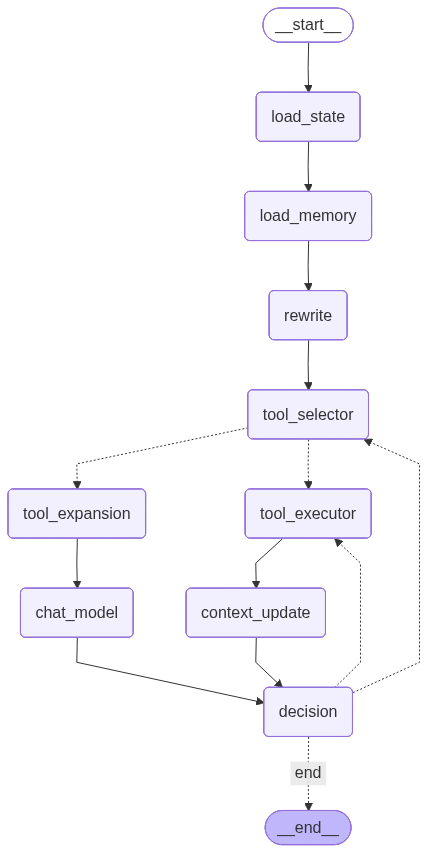
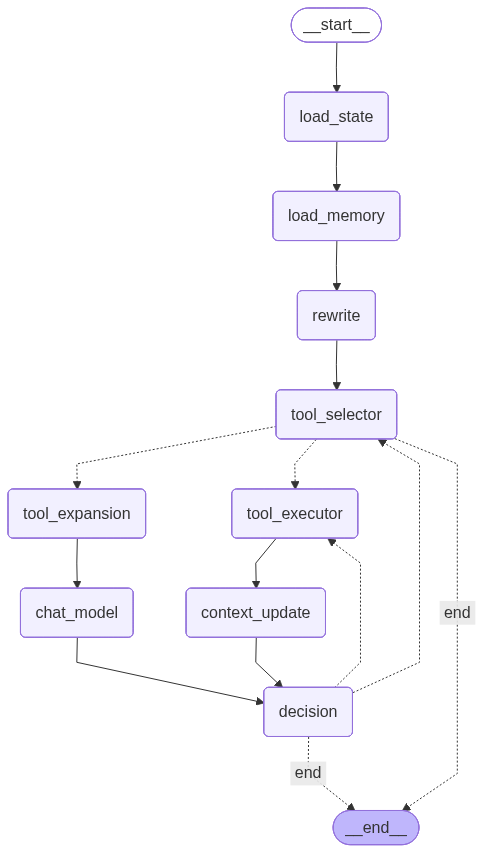
graph

diff --git a/app/agent/graph/nodes/tool_selector.py b/app/agent/graph/nodes/tool_selector.py
@@ -3,6 +3,7 @@ from __future__ import annotations
 from loguru import logger
 from app.agent.context.tools.selector import build_category_selector_tool
 from langchain_core.messages import AIMessage
+from app.agent.util import extract_reply_text
 
 from app.agent.graph.runtime import GraphRuntimeContext
 
@@ -31,10 +32,24 @@ def tool_selector_node(state: ReplyState, context: GraphRuntimeContext) -> Reply
                 "selector_requires_tool_execution": True,
             }
         )
+    direct_reply_text = _extract_direct_reply_text(reply)
+    if direct_reply_text is not None:
+        logger.info("tool_selector 已直接产出最终回复，结束当前轮")
+        return state.model_copy(
+            update={
+                "messages": updated_messages,
+                "final_reply": direct_reply_text,
+                "selected_tool_categories": (),
+                "selected_tool_names": (),
+                "selector_confidence": 1.0,
+                "selector_requires_tool_execution": False,
+            }
+        )
     if selected_category is None:
         logger.info("tool_selector 未选择工具大类，当前轮按直答继续")
         return state.model_copy(
             update={
+                "messages": updated_messages,
                 "selected_tool_categories": (),
                 "selected_tool_names": (),
                 "selector_confidence": 0.4,
@@ -60,3 +75,12 @@ def _has_non_selector_tool_call(reply: AIMessage) -> bool:
         if isinstance(tool_name, str) and tool_name != "select_tool_category":
             return True
     return False
+
+
+def _extract_direct_reply_text(reply: AIMessage) -> str | None:
+    if getattr(reply, "tool_calls", None):
+        return None
+    reply_text = extract_reply_text(reply).strip()
+    if reply_text == "":
+        return None
+    return reply_text

diff --git a/app/agent/graph/builder.py b/app/agent/graph/builder.py
@@ -87,7 +87,7 @@ def build_graph(
     graph.add_edge("load_state", "load_memory")
     graph.add_edge("load_memory", "rewrite")
     graph.add_edge("rewrite", "tool_selector")
-    graph.add_conditional_edges("tool_selector", route_after_tool_selector, {"tool_expansion": "tool_expansion", "tool_executor": "tool_executor"})
+    graph.add_conditional_edges("tool_selector", route_after_tool_selector, {"tool_expansion": "tool_expansion", "tool_executor": "tool_executor", "end": END})
     graph.add_edge("tool_expansion", "chat_model")
     graph.add_edge("chat_model", "decision")
     graph.add_edge("tool_executor", "context_update")

diff --git a/app/agent/graph/helpers.py b/app/agent/graph/helpers.py
@@ -40,8 +40,7 @@ def has_non_selector_tool_call(reply: AIMessage) -> bool:
 def invoke_model(model, messages: list[BaseMessage], bound_tool_names: tuple[str, ...] = ()) -> AIMessage:
     """统一封装模型调用并记录日志。"""
 
-    logger.info("当前 bind_tools: {}", list(bound_tool_names))
-    logger.info("请求模型提示词:\n{}", format_messages_for_log(messages))
+    logger.info("当前 bind_tools: {}\n请求模型提示词:\n{}", list(bound_tool_names), format_messages_for_log(messages))
     reply = model.invoke(messages)
     logger.info(
         "模型回复: text={} tool_calls={}",

diff --git a/app/agent/graph/routes.py b/app/agent/graph/routes.py
@@ -5,7 +5,9 @@ from typing import Literal
 from .state import ReplyState
 
 
-def route_after_tool_selector(state: ReplyState) -> Literal["tool_expansion", "tool_executor"]:
+def route_after_tool_selector(state: ReplyState) -> Literal["tool_expansion", "tool_executor", "end"]:
+    if state.final_reply is not None:
+        return "end"
     if state.selector_requires_tool_execution:
         return "tool_executor"
     return "tool_expansion"
